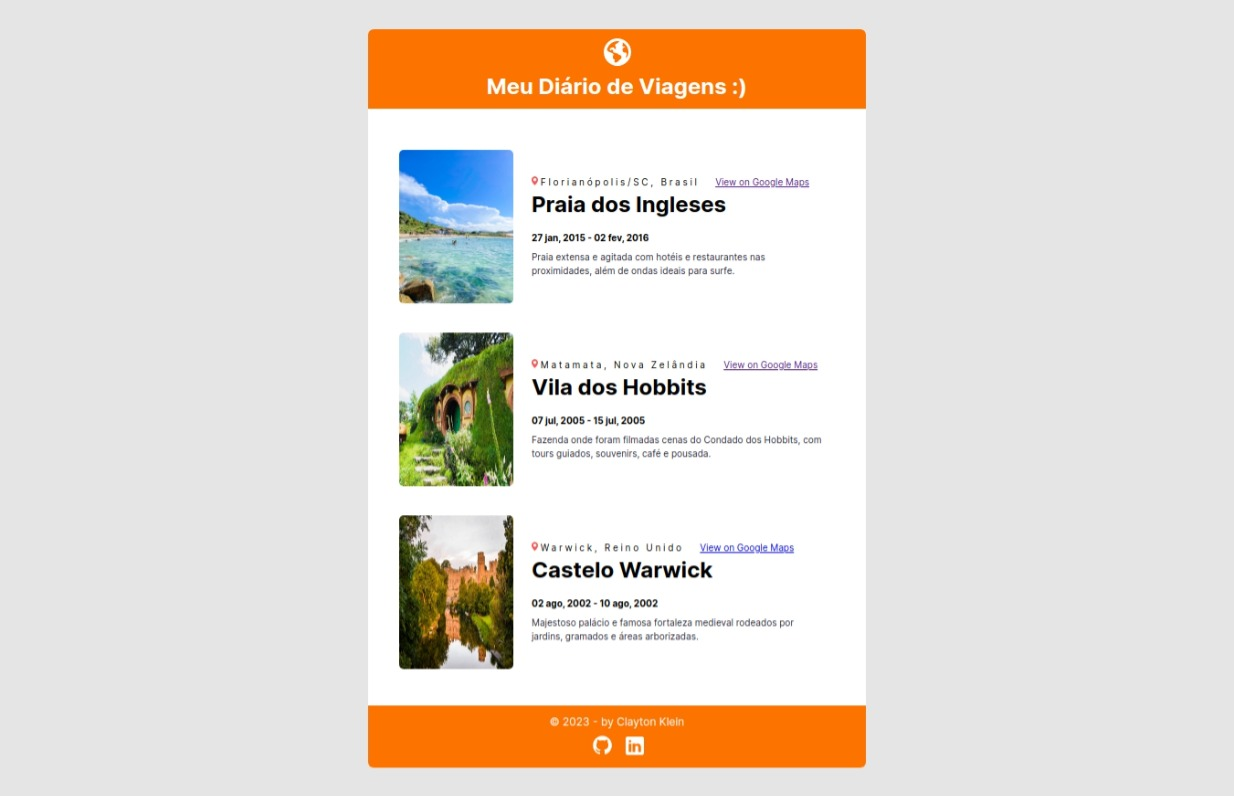
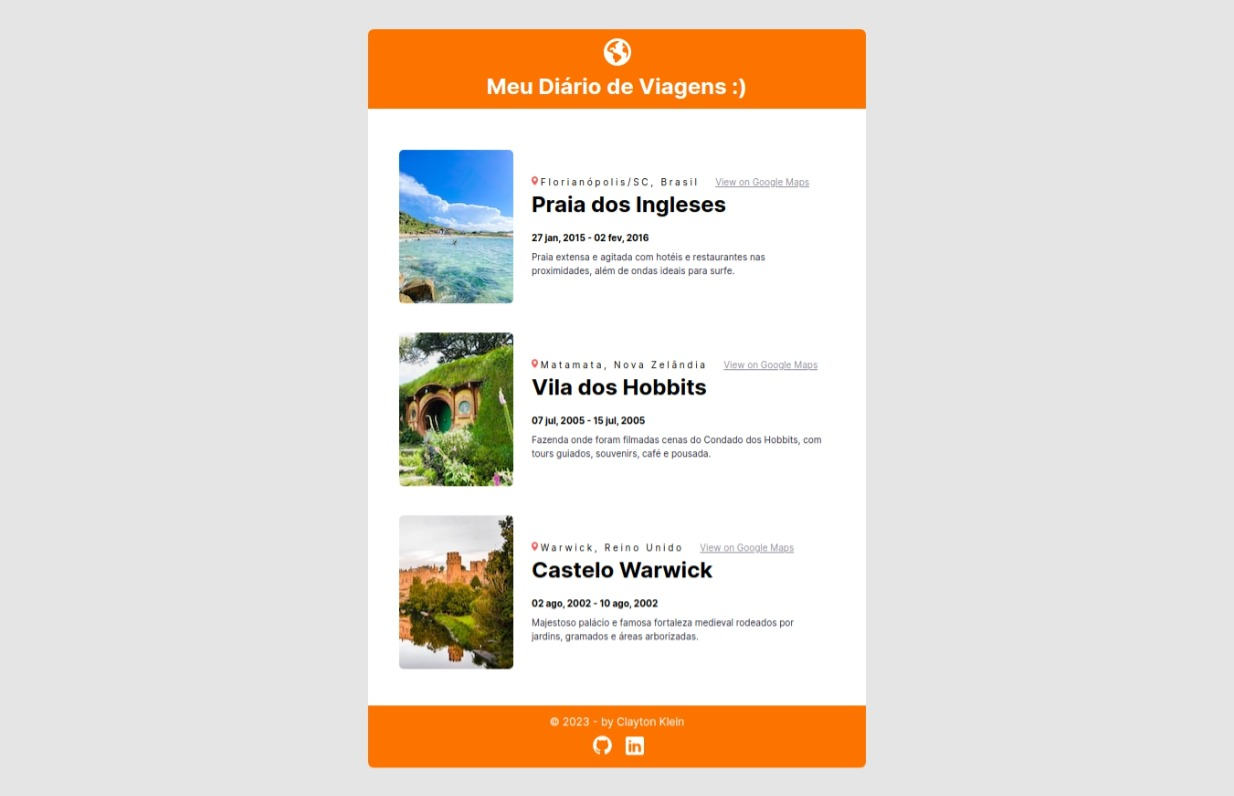
refactor: fix link color and update screenshot img

diff --git a/src/styles/Card.css b/src/styles/Card.css
@@ -14,9 +14,12 @@
 }
 
 .card__location {
-    color: #918E9B;
     font-size: 10px;
     margin: 0;
+}
+
+.card__link {
+    color: #918E9B;
 }
 
 .card__country {
